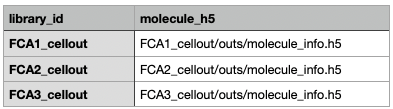
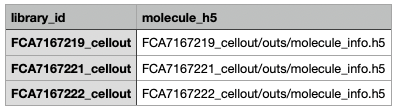
replace the old files

Changed region(s): [[0.0, 0.0278, 1.0, 1.0]]

diff --git a/Day2_Practical_1.md b/Day2_Practical_1.md
@@ -32,10 +32,12 @@ Raw Data(10x)             | ArrayExpress EMBL-EBI [E-MTAB-6701](https://www.ebi.
 Raw Data(SS2)             | ArrayExpress EMBL-EBI [E-MTAB-6678](https://www.ebi.ac.uk/arrayexpress/experiments/E-MTAB-6678)
 
 ## 1) SmartSeq2
+
 Libraries were sequenced aiming at an average depth of 1 million reads/cell, on an Illumina HiSeq 2000 with v4 chemistry (**paired-end 75-bp reads**). Libraries were made using Nextera XT	RNA was extracted, cDNA created and amplified, as part of the smart-seq 2 protocol.
 
 ### Customised Pipeline running with aligner Hisat2 (Similar as bulk RNASeq)
-* a) Build index<br>
+
+ **a) Build index**<br>
 You need to build hisat2 reference for alignment if you did not have. There are different indices to build depends on your align requirements, eg. HFM index, HGFM index with SNPs or transcripts or both. Here we use HFM index. You do not need to build index as we already saved them in the practical.
 
                cd ./Practical_day2
@@ -46,7 +48,7 @@ The following files will be generated: <br>
             GRCh38.1.ht2, GRCh38.2.ht2, GRCh38.3.ht2, GRCh38.4.ht2,
             GRCh38.5.ht2, GRCh38.6.ht2, GRCh38.7.ht2, GRCh38.8.ht2.
 
-* b) Check fastq file, quality contorl (fastQC+MultiQC) Align <br>
+ **b) Check fastq file, quality contorl (fastQC+MultiQC) Align** <br>
 
                cd ./Practical_day2/Data/SS2Data
                zcat ./Fastq/23728_8_119.1.fastq.gz | head
@@ -61,14 +63,15 @@ We will skip the QC check step in this practical for SmartSeq2 data. <br>
                       -S ./Fastq/23728_8_119.sam
 
 <IMG SRC="Screenshot/SS2_hisat2_align.png" width=800px>
-* c) Data sorting <br>
+
+ **c) Data sorting** <br>
 
                samtools view -bS ./Fastq/23728_8_119.sam > ./Fastq/23728_8_119_unsorted.bam
                samtools sort -o ./Fastq/23728_8_119_sorted.bam ./Fastq/23728_8_119_unsorted.bam
                rm ./Fastq/23728_8_119.sam
 
-* d) Reads counts and extract the counts columns <br>
-    -[1] One sample
+ **d) Reads counts and extract the counts columns** <br>
+    -[1] **One sample**
 
                featureCounts -p -a ../refdata-gex-GRCh38-2020-A/genes/genes.gtf \
                              -t exon -g gene_id \
@@ -77,7 +80,10 @@ We will skip the QC check step in this practical for SmartSeq2 data. <br>
                cut -f1,7 ./Fastq/23728_8_119_featureCounts.txt > ./Fastq/23728_8_119_featureCounts_mat.txt
 
  <IMG SRC="Screenshot/SS2_Subread.png" width=800px>
-    -[2] multiple samples
+<br>
+<br>
+
+  -[2] **multiple samples**
 
               featureCounts -p -a ../refdata-gex-GRCh38-2020-A/genes/genes.gtf \
                             -t exon -g gene_id \
@@ -90,13 +96,14 @@ We will skip the QC check step in this practical for SmartSeq2 data. <br>
                head ./Fastq/SS2_EM.txt
 
 <IMG SRC="Screenshot/SS2_featureC.png" width=900px>
+<br>
+<br>
 
-
-* f) Use R or linux command to merge the featureCounts output and generate your own gene/cell count matrix.
+ **e) Use R or linux** command to merge the featureCounts output and generate your own gene/cell count matrix.
 <IMG SRC="Screenshot/SS2_ReadEM_R.png" width=800px>
 
 
-#### Alongside thinking...
+### Alongside thinking...
 * Alignment can use STAR, Kallisto, Salmon et al;
 * Bash script for multiple SS2 data;
 * QC checking, MultiQC.
@@ -113,46 +120,62 @@ The libraries were sequenced on an Illumina HiSeq 4000 with v4 chemistry (*Paire
 | FCA7167221                |        1171        |
 | FCA7167222                |        1764        |
 
-Due to the memory problem for running **cellranger**, we applied the subsets of the original fastq files using "seqtk", randomly selected 10000 sequence from the original ones. The subsets names as FCA1, FCA2 and FCA3.  
+Due to the memory problem for running **cellranger**, we will not run our cellranger analysis during our practical. However, we will have a look at different examples of cellranger output report to understand initial QC.
 
-### Data Processing ###
-Raw sequencing files are run through the cellranger pipeline (v5.0.0) with the following two main functions **cellranger count** and **cellranger aggr** as we mentioned in the lecture. <br> We only run sample *FCA7167219* using **cellranger count**. For the **cellranger aggr** practical, we will use the output already done to perform the analysis to save the time and memory. <br>
+### Cellranger pipeline
 
-### Method1: cellranger pipeline
-
-#### cellranger count ####
+#### cellranger count (**Don't run**)
 
            cd ./Practical_day2/Data/10xData
-           cellranger count --id=FCA1_cellout \
+           cellranger count --id=FCA7167219_cellout \
                             --transcriptome= ../refdata-gex-GRCh38-2020-A \
-                            --fastqs=FCA1_fastq \
-                            --sample=FCA1 \
+                            --fastqs=FCA7167219_fastq \
+                            --sample=FCA7167219 \
                             --expect-cells=1000 \
                             --localcores=8 \
                             --localmem=64
 
 <IMG SRC="Screenshot/cellranger_dir_tree.png" width=400px>
 
+We will use three files in the directory **filtered_feature_bc_matrix/**, which contains only detected cellular barcodes. <br>
+
+              barcodes.tsv.gz           features.tsv.gz              matrix.mtx.gz
+
+To view these gz files, you can use the following barcodes
+
+              zcat barcodes.tsv.gz | head
+or
+
+              gzip -cd barcodes.tsv.gz | head
+
+<IMG SRC="Screenshot/cellranger_barcode.png" width=800px>
+<IMG SRC="Screenshot/cellranger_feature.png" width=800px>
+
 #### Summary report web_summary.html
 
 <IMG SRC="Screenshot/cellranger_FCA1_1.png" width=800px>
 <IMG SRC="Screenshot/cellranger_FCA1_2.png" width=800px>
 
-#### Alongside thinking...
+
+### Alongside thinking by checking cellranger webpage...
+* Go through the output
+
+              /home/training/Practical_day2/10xData/FCA123_web_summary.html
+
 * Rename the *fastq* files as *FCA1_S1_L001_R1_001.fq.gz* or *FCA1_R1.fastq.gz*, what happens?;
 * Path/Directory of your reference saved;
 * Check the --id and --sample options;
 * Expect number of cells;
 * Settings of your running terminal machine;
 * Check the folder filtered_feature_bc_matrix/features.tsv.gz file top 8 lines using linux commands;
-                  ?? features.tsv.gz | ??
-* Go through the output
-             FCA1_cellout/outs/web_summary.html
+                  ?? features.tsv.gz | ??;
+* What is the Barcodes Plot reasonable cut-off threshold?
+
+
 
 #### cellranger aggr (**Don't run**)
-
 *cellranger aggr is not designed for combining multiple sequencing runs of the same GEM Well. For that, you should pass a list of FASTQ files from multiple sequencing runs of the same GEM well to the --fastqs argument of cellranger count.*
-<IMG SRC="Screenshot/cellranger_aggr_csv.png" width=800px>
+<IMG SRC="Screenshot/cellranger_aggr_csv.png" width=400px>
 
               cellranger aggr --id=FCA123 \
                               --csv=FCA123_libraries.csv \
@@ -163,12 +186,14 @@ Raw sequencing files are run through the cellranger pipeline (v5.0.0) with the f
 <IMG SRC="Screenshot/cellranger_3.png" width=800px>
 
 
-#### Alongside thinking...
+### Alongside thinking...
 
 * Using R to generate your csv file;
 * Check the dimension of the count matrix;
 * if we change the --normalize from "none" to "mapped", what is the difference for the final matrix?
-* R seurat package: **Read10x** to call the matrix "outs/count/filtered_feature_bc_matrix/"
+* R Matrix package or seurat package (**Read10x** to get the expression matrix), which one you prefer?
+<IMG SRC="Screenshot/cellranger_Rmat.png" width=800px>
+
 
 ## HPC pipeline information: NextFlow
 
@@ -212,7 +237,14 @@ eg. (default aligner is alevin)
                                              -with-report 10x_report.html &> 10x_nextflow_command.resume.log &
 <IMG SRC="Screenshot/nf_scrnaseq.png" width=800px>
 
-
+### Highlights for nextflow (Please have a go after this course)
+ * Reproducible; (-resume,  -r options)
+ * Full-report of the usage of CPU, memory, time (report.html);
+ * Full-report of all the libraries initial QC (multiqc.html);
+ * Full summary log file for running (nextflow_command.log);
+ * HPC efficiency.
+ * smartseq2 pipeline is also include TCR and BCR analysis.
+ * ....
 
 | Resource              | Version         |
 | --------------------- | --------------- |
